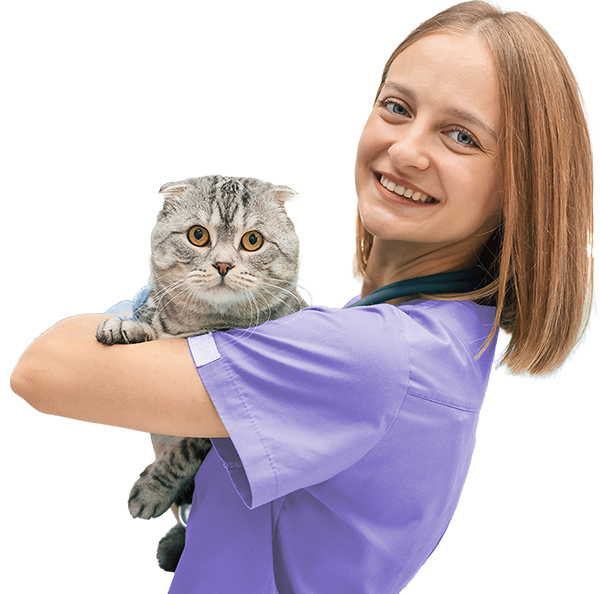
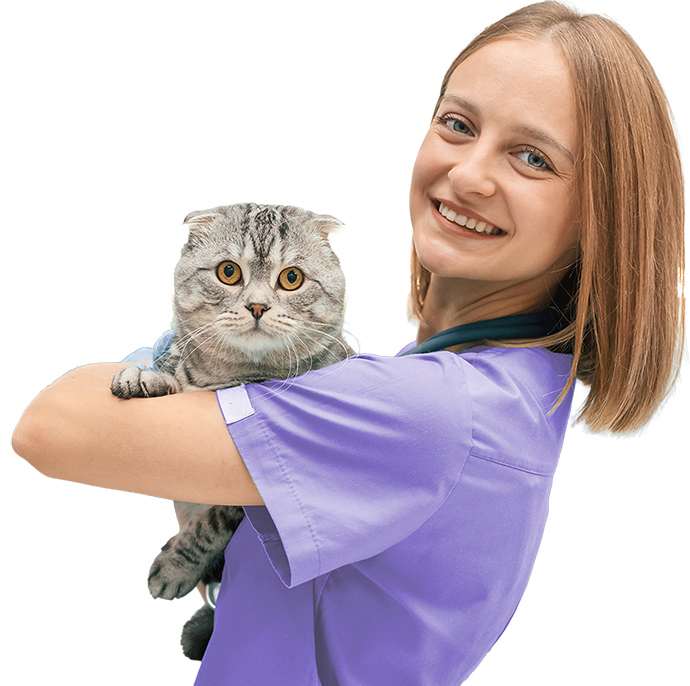
баннер команда мобильный адаптив

diff --git a/src/scss/components/_features.scss b/src/scss/components/_features.scss
@@ -6,9 +6,9 @@
 	--btn-bgr: var(--section-bgr);
 	display: flex;
 	flex-direction: column;
-	gap: 35px;
+	gap: 25px;
 	position: relative;
-	padding: 30px 25px;
+	padding: 35px 25px;
 	overflow: hidden;
 	background: var(--section-bgr);
 	border-radius: 30px;
@@ -17,19 +17,40 @@
 	&__col {
 		display: flex;
 		flex-direction: column;
-		gap: 40px;
+		gap: 25px;
 		z-index: 1;
+		transition: all $transition-default;
 		// .f-section__col_left
 		&_left {
 		}
 		// .f-section__col_right
 		&_right {
 		}
+
+		@include resp-from(md) {
+			gap: 30px;
+		}
+
+		@include resp-from(lg) {
+			gap: 40px;
+		}
 	}
 	// .f-section__header
 	&__header {
+		display: flex;
+		justify-content: center;
+		gap: 10px;
+
 		svg {
-			max-width: 416px;
+			max-width: 275px;
+
+			@include resp-from(md) {
+				max-width: 416px;
+			}
+		}
+
+		@include resp-from(lg) {
+			justify-content: flex-start;
 		}
 	}
 	// .f-section__body
@@ -79,9 +100,14 @@
 	// .f-section__footer
 	&__footer {
 		display: flex;
+		justify-content: center;
 		align-items: flex-end;
 		gap: 10px;
 		margin-top: auto;
+
+		@include resp-from(lg) {
+			justify-content: flex-start;
+		}
 	}
 	// .f-section__icon (svg use)
 	// &__icon {
@@ -94,47 +120,60 @@
 	// .f-section_bg-center
 	&_bg-center {
 		.f-section__col {
-			min-width: 316px;
-			max-width: 360px;
-			transition: all $transition-default;
-
 			&_left {
+				@include resp-from(lg) {
+					min-width: 316px;
+					max-width: 360px;
+				}
+
 				@include resp-from(xl) {
 					max-width: 416px;
 				}
 			}
 
 			&_right {
-				width: 33%;
-				min-width: 335px;
-				max-width: 375px;
+				@include resp-from(lg) {
+					width: 33%;
+					min-width: 335px;
+					max-width: 375px;
+				}
 			}
 		}
 
 		.f-section__body_left {
 			@include resp-from(lg) {
-				padding-right: 20%;
+				padding-right: 18%;
 			}
 		}
 
 		.f-section__bg {
-			position: absolute;
-			bottom: 0;
-			left: calc(50% - 60px);
-			transform: translateX(-50%);
-			width: 38%;
-			max-width: 485px;
+			align-self: center;
+			position: relative;
+			bottom: -35px;
+			max-width: 345px;
 			mix-blend-mode: darken;
+
+			@include resp-from(lg) {
+				align-self: auto;
+				position: absolute;
+				bottom: 0;
+				left: calc(50% - 70px);
+				transform: translateX(-50%);
+				width: 38%;
+				max-width: 485px;
+			}
 		}
 	}
 
 	@include resp-from(md) {
+		gap: 30px;
 		padding: 35px;
 	}
 
 	@include resp-from(lg) {
 		flex-direction: row;
 		justify-content: space-between;
+		gap: 35px;
 		padding: 50px 45px;
 	}
 }

diff --git a/src/html/components/features/block-team.html b/src/html/components/features/block-team.html
@@ -5,7 +5,7 @@
 				<use href="#logo-text"></use>
 			</svg>
 		</div>
-		<div class="f-section__body f-section__body_left">
+		<div class="f-section__body f-section__body_left center-to-lg">
 			<strong>
 				Для нас работа&nbsp;&mdash; это&nbsp;призвание
 			</strong>
@@ -31,7 +31,7 @@
 			</ul>
 		</div>
 		<div class="f-section__footer">
-			<a href="javascript:void(0)" class="btn btn_md">Присоединиться к команде</a>
+			<a href="javascript:void(0)" class="btn btn_md btn_wrap">Присоединиться к команде</a>
 		</div>
 	</div>
 

diff --git a/src/scss/base/_typography.scss b/src/scss/base/_typography.scss
@@ -156,6 +156,12 @@ ol {
 	text-align: center !important;
 }
 
+.center-to-lg {
+	@include resp-to(lg) {
+		text-align: center !important;
+	}
+}
+
 .left {
 	text-align: left !important;
 }
